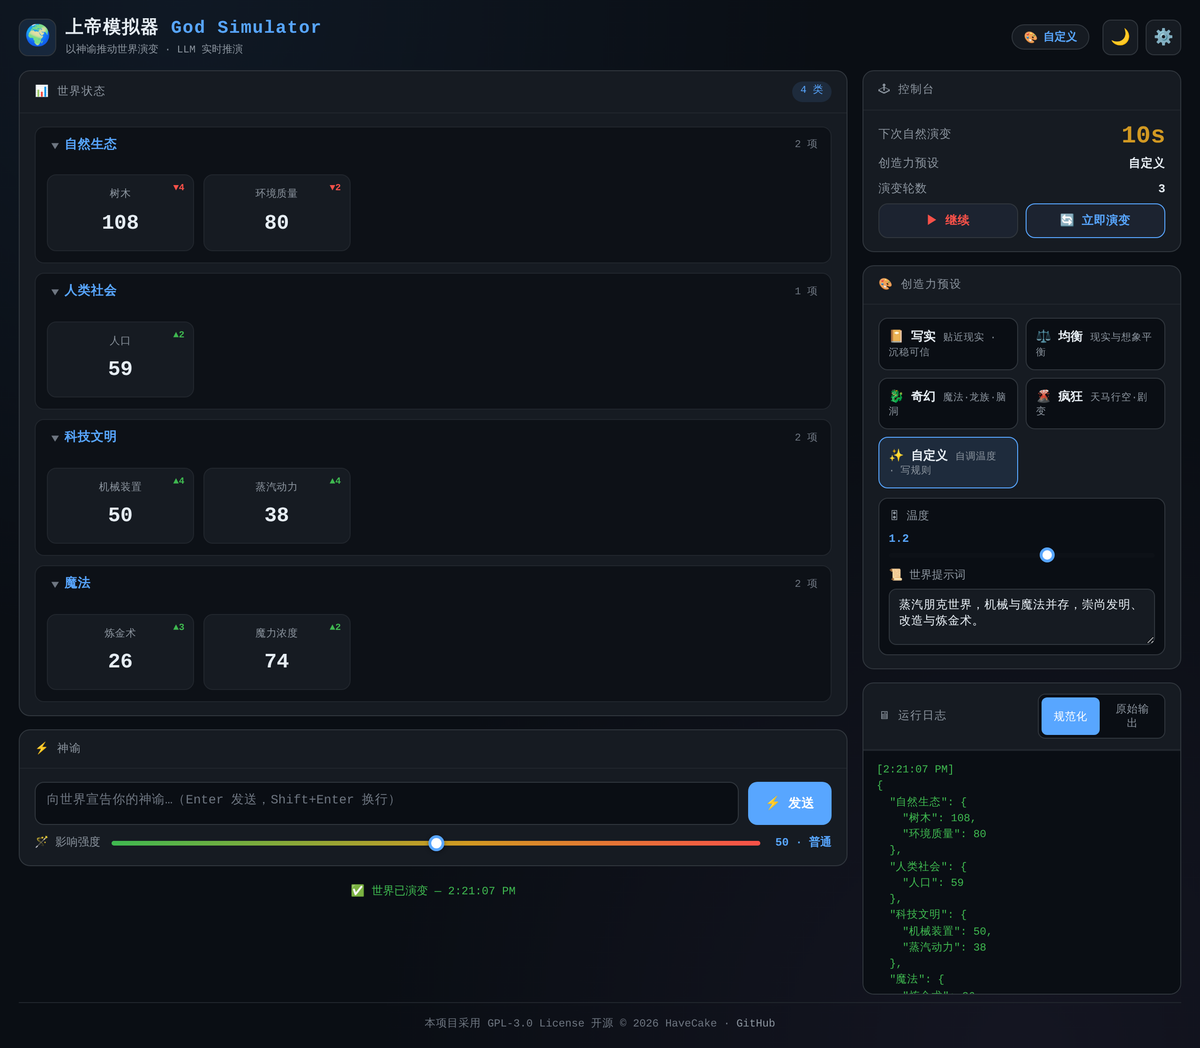
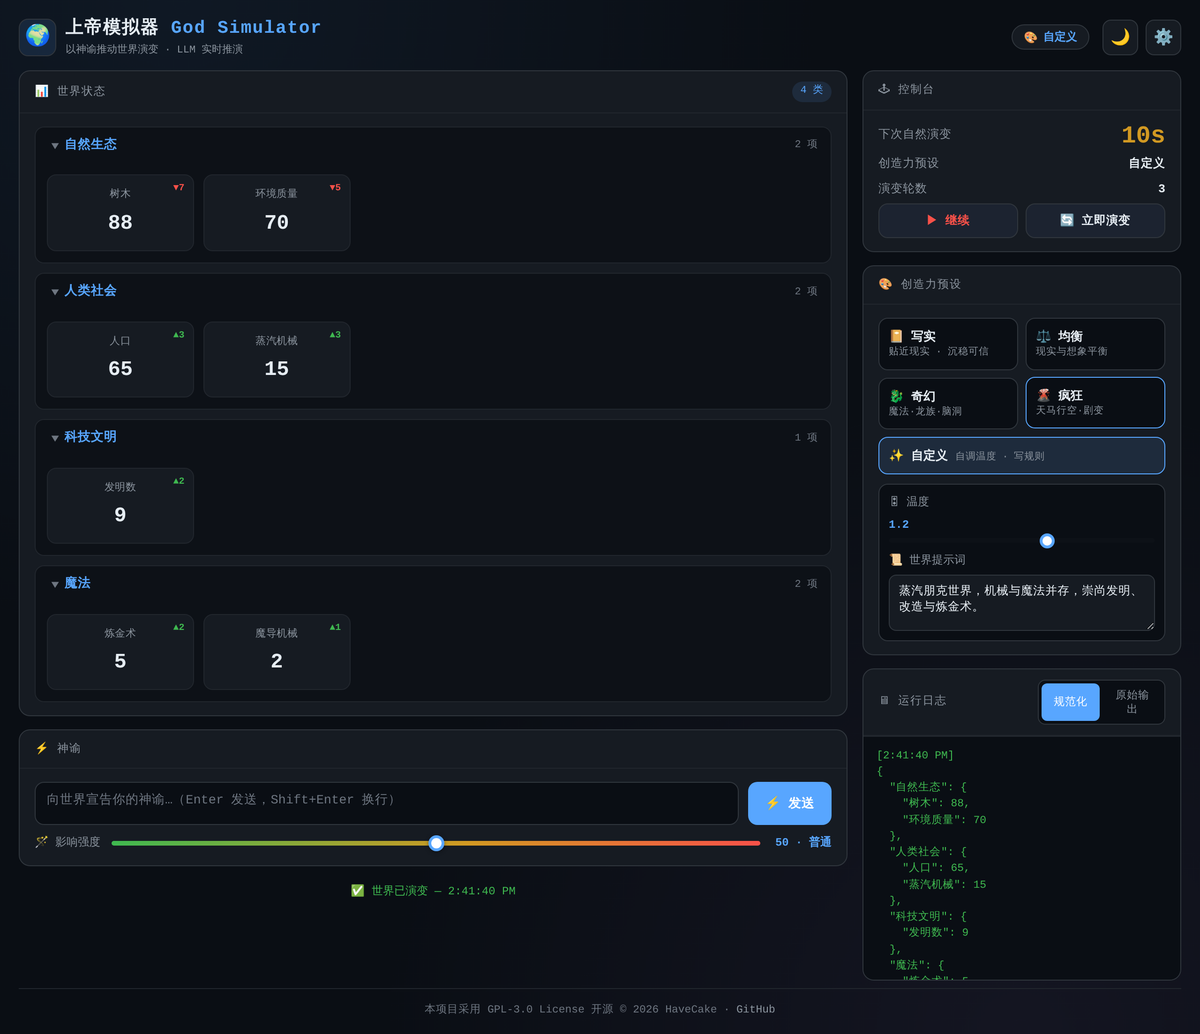
fix: hide custom-creativity panel unless 自定义 selected & polish mobile layout
- Fix a CSS specificity bug: .custom-config{display:flex} overrode the [hidden] attribute, so the custom panel (temperature + world prompt) was always visible. Add [hidden]{display:none!important} so it only appears when 自定义 is selected and hides for the other presets.
- Keep preset descriptions on a single line (nowrap + ellipsis) and let the 自定义 button span the full row for a balanced preset grid.
- Tighten the mobile layout (title truncation, gaps) and regenerate the README screenshots to match the corrected layout; add a mobile-adaptation note to the feature list.

diff --git a/public/index.html b/public/index.html
@@ -6,6 +6,7 @@
 <title>上帝模拟器 — God Simulator</title>
 <style>
 *,*::before,*::after{box-sizing:border-box;margin:0;padding:0}
+[hidden]{display:none!important}
 
 /* ── Theme Variables ── */
 :root{
@@ -124,7 +125,8 @@ details.category .grid{padding:10px 12px 12px}
 .qp-btn:hover{border-color:var(--accent);transform:translateY(-1px)}
 .qp-btn.active{border-color:var(--accent);background:var(--accent-soft)}
 .qp-btn .qp-name{font-size:13px;font-weight:700;color:var(--text)}
-.qp-btn .qp-desc{font-size:10.5px;color:var(--muted);margin-top:2px;line-height:1.35}
+#qpCustom{grid-column:1 / -1}
+.qp-btn .qp-desc{font-size:10.5px;color:var(--muted);margin-top:2px;line-height:1.35;white-space:nowrap;overflow:hidden;text-overflow:ellipsis}
 .custom-config{margin-top:10px;display:flex;flex-direction:column;gap:10px;padding:10px;background:var(--bg);border:1px solid var(--border);border-radius:10px}
 .custom-row{display:flex;flex-direction:column;gap:5px;font-size:12px;color:var(--muted)}
 .custom-row textarea{background:var(--surface);border:1px solid var(--border);border-radius:8px;padding:8px 10px;color:var(--text);font-family:var(--font-mono);font-size:12.5px;resize:vertical;outline:none;min-height:56px}

diff --git a/README.md b/README.md
@@ -48,6 +48,7 @@
 - **自定义创造力**：除「写实 / 均衡 / 奇幻 / 疯狂」四大预设外，新增「自定义」模式，可自由调节温度（0–2）并编写专属**世界提示词**，让 LLM 按你设定的风格推演（如蒸汽朋克、赛博朋克、末日废土等）。
 - **提示词与格式严格隔离**：用户编写的「世界提示词」与「输出格式约束」始终分属**两条独立的 System 消息**——自定义内容只决定世界的内容与风格，永远无法破坏 LLM 输出的 JSON 规范，确保推演绝不中断。
 - **主页统一管理创造力**：创造力预设精简为**仅放置在主页**（顶部胶囊 + 侧栏快捷预设），设置弹窗不再重复，避免两处配置互相冲突。
+- **移动端自适应排版**：预设补充说明保持单行不折行、自定义配置栏按需展开（选中「自定义」才显示，选其他预设自动隐藏），窄屏题栏合理截断、无重叠。
 - **服务端默认配置**：管理员可在服务器的 `.env` 文件中预设 API 地址、Key 和模型，用户无需填写即可直接使用；未配置时行为与之前完全一致，仍需用户自行填写。
 - **URL 自动规范化**：无论用户填写的是 `https://api.openai.com`、`https://api.openai.com/v1` 还是完整路径，服务端均能自动修正为正确的 Chat Completions 端点；格式错误时会明确提示。
 - **兼容任意 OpenAI 兼容接口**：只要提供符合 OpenAI Chat Completions 规范的 API 即可，支持 OpenAI、Azure、本地部署模型等。
